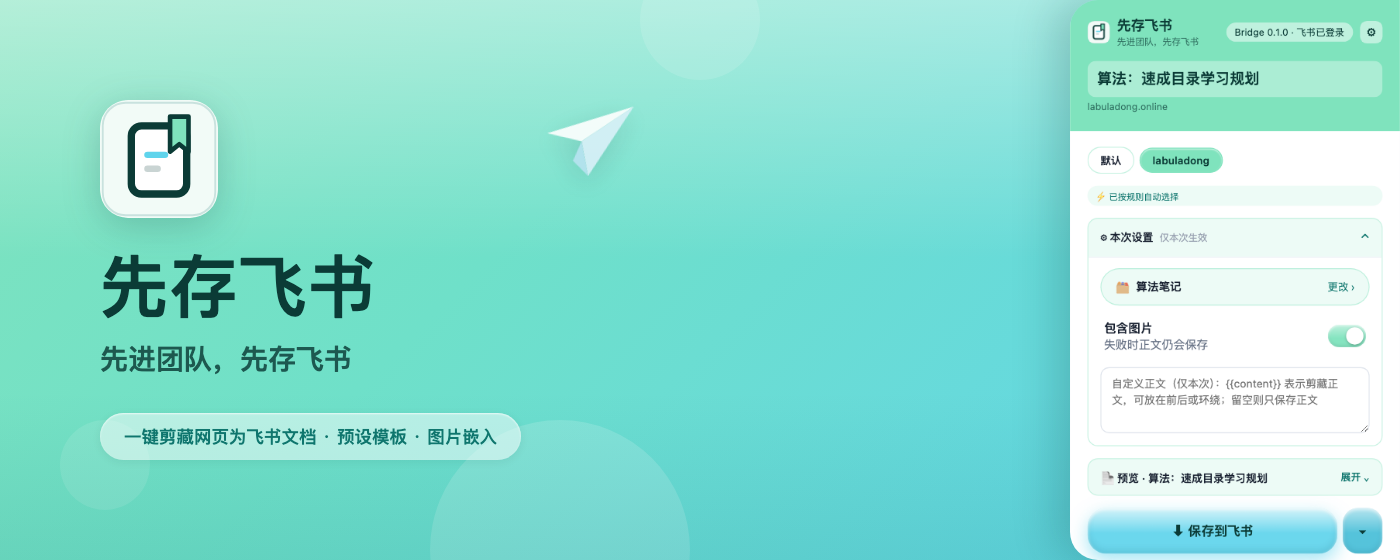
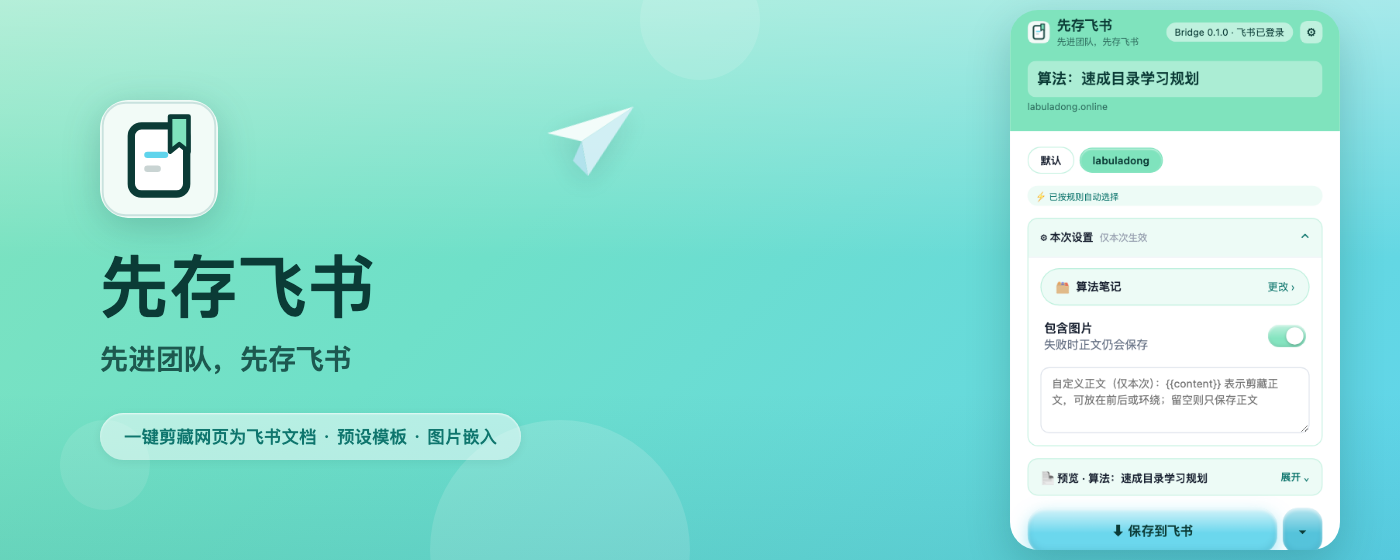
docs: 大横幅弹窗特写右收 60px——去右缘出血，卡片上下居中四角圆角，构图更平衡

Changed region(s): [[0.7064, 0.0, 1.0, 1.0], [0.8907, 0.4857, 0.9214, 0.5161]]

diff --git a/prototypes/store-shots/promo.html b/prototypes/store-shots/promo.html
@@ -57,13 +57,16 @@
   .marquee .b1 { width: 260px; height: 260px; left: 430px; bottom: -120px; }
   .marquee .b2 { width: 120px; height: 120px; left: 640px; top: -40px; opacity: .8; }
   .marquee .b3 { width: 90px; height: 90px; left: 60px; top: 420px; opacity: .7; }
-  /* 右侧弹窗特写：从 screenshot-1-popup.png 裁出弹窗列，右缘出血 */
+  /* 右侧弹窗特写：从 screenshot-1-popup.png 裁出弹窗列；右缘留 60px 边距，
+     卡片上下居中、四角圆角，不再出血裁切；img 上移少许保住底部保存按钮 */
+  body.marquee { padding-right: 60px; }
   .marquee .shot {
-    margin-left: auto; width: 330px; height: 560px; overflow: hidden; flex-shrink: 0;
-    border-radius: 28px 0 0 28px; box-shadow: -14px 0 44px rgba(11,59,54,.22);
+    margin-left: auto; width: 330px; height: 540px; overflow: hidden; flex-shrink: 0;
+    align-self: center;
+    border-radius: 28px; box-shadow: 0 16px 44px rgba(11,59,54,.22);
     position: relative; z-index: 1;
   }
-  .marquee .shot img { width: 992px; margin-left: -331px; display: block; }
+  .marquee .shot img { width: 992px; margin-left: -331px; margin-top: -10px; display: block; }
 </style>
 </head>
 <body>
